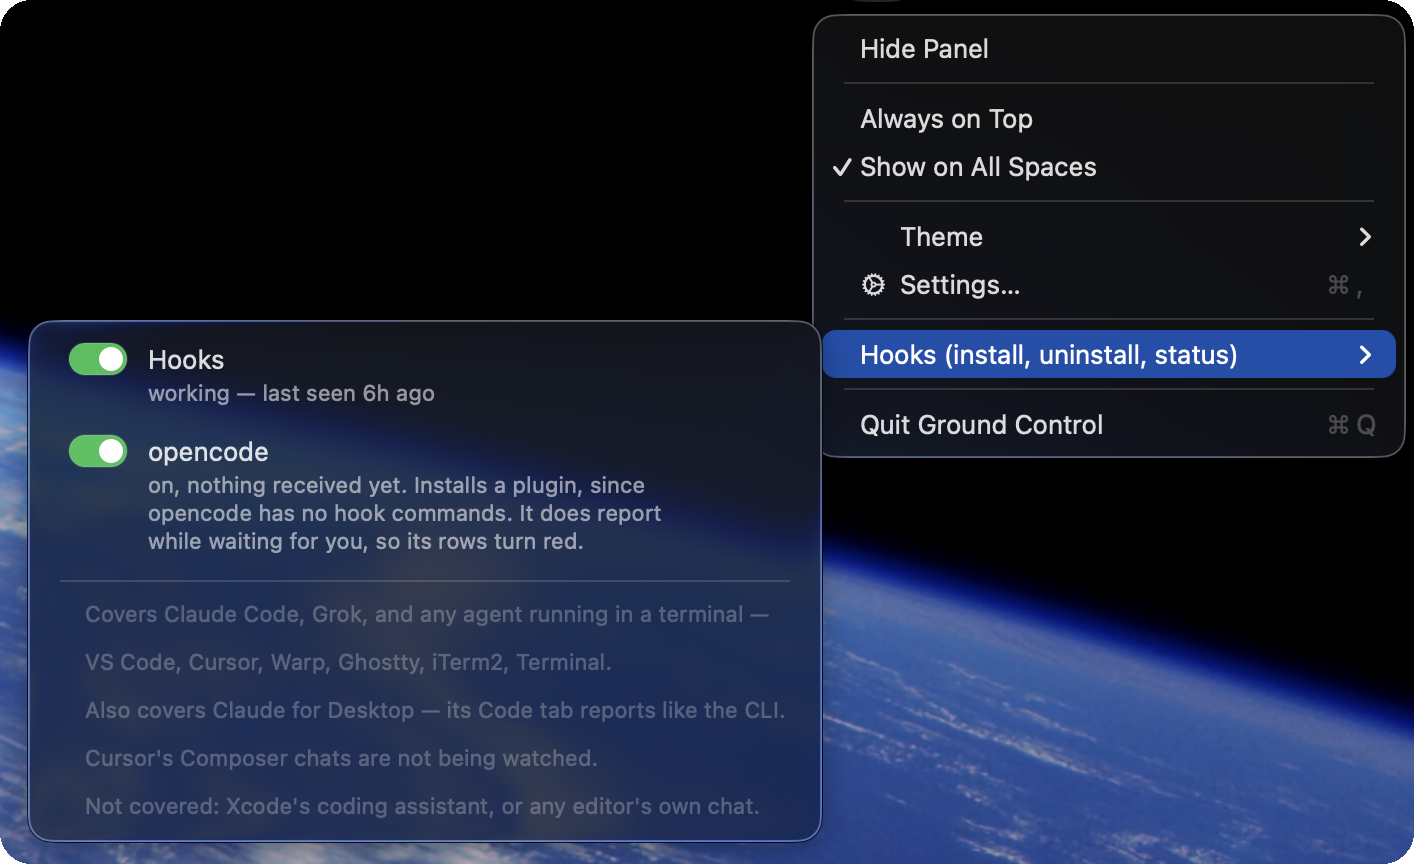
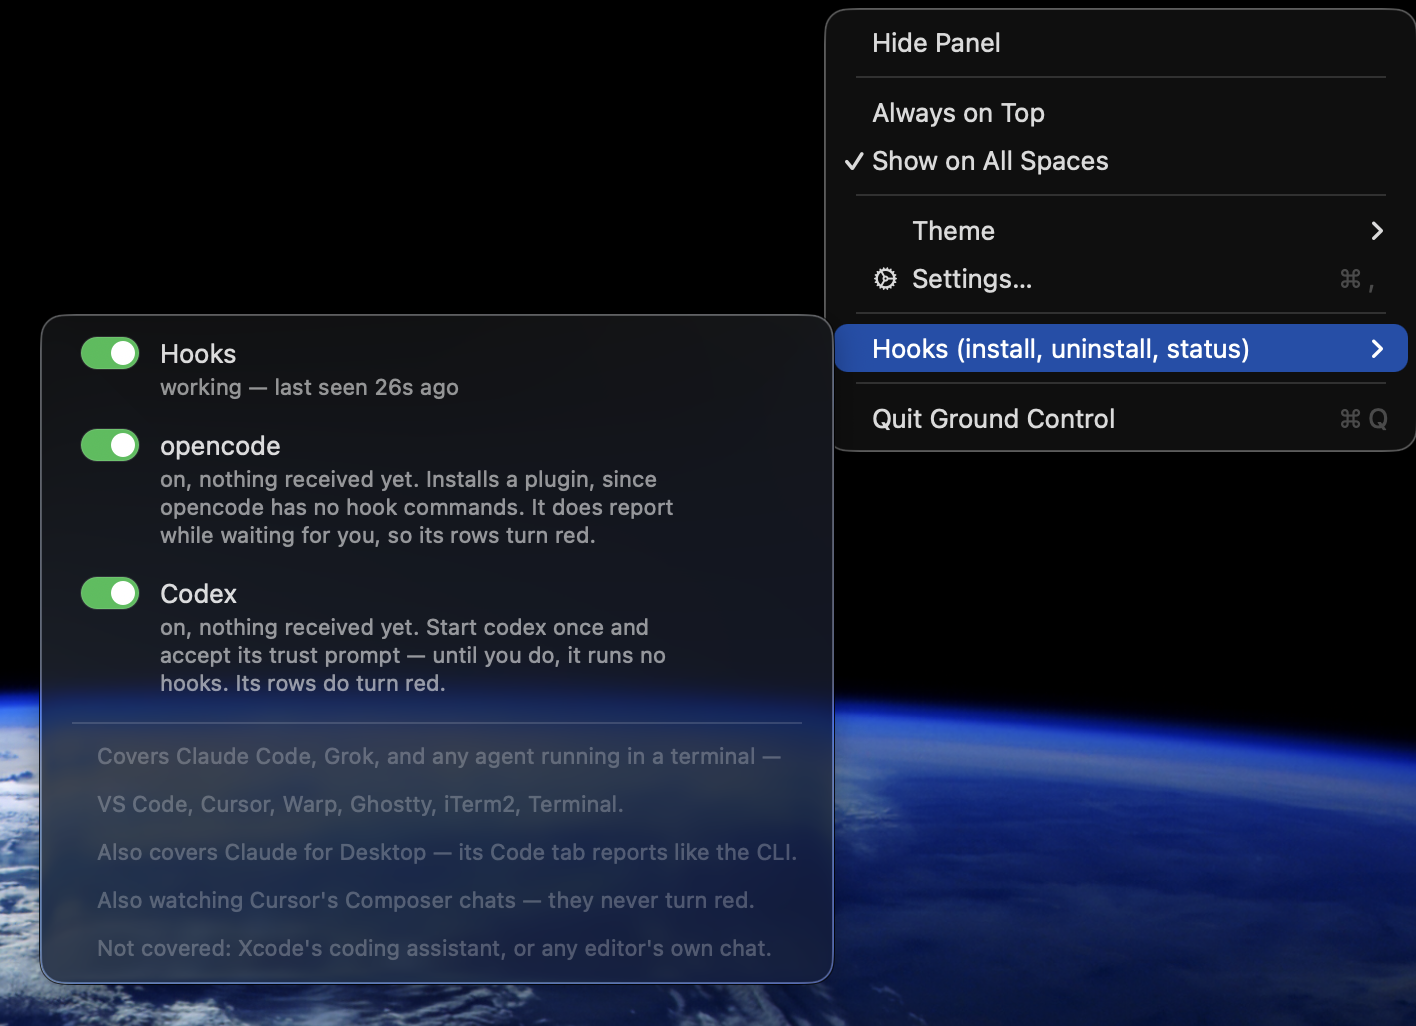
Refresh the Hooks-submenu screenshot to one with Codex in it
The old shot predates the Codex switch, so a reader following the
install steps saw two switches in the README and three in their menu —
and the one missing from the picture is the one that needs an extra
step to work at all.

Alt text rewritten to describe what is actually on screen rather than
name the menu, since the caveat lines under each switch are the part
worth reading.

Claude-Session: https://claude.ai/code/session_01JPxQtTdJUtsfHJWtFR7MQs

diff --git a/README.md b/README.md
@@ -126,7 +126,7 @@ The panel stays empty until an agent reports in. Either run:
 …or click the menu-bar icon and open **Hooks** — a switch per agent, and a line
 under each saying whether anything has arrived from it yet.
 
-![The menu-bar icon's Hooks submenu](docs/images/install-2-enable-hooks.png)
+![The menu-bar icon's Hooks submenu: three switches — Hooks ("working — last seen 26s ago"), opencode and Codex — each with a line underneath saying what it covers and whether anything has arrived, above a grey list of what the install reaches and what it cannot](docs/images/install-2-enable-hooks.png)
 
 - **Run it once.** Later versions of the app keep the installed emitter up to
   date on their own.
